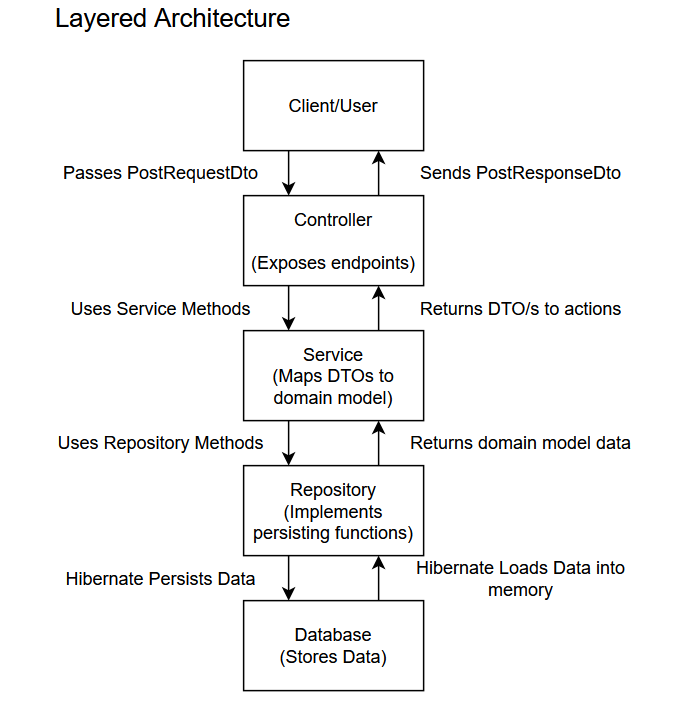
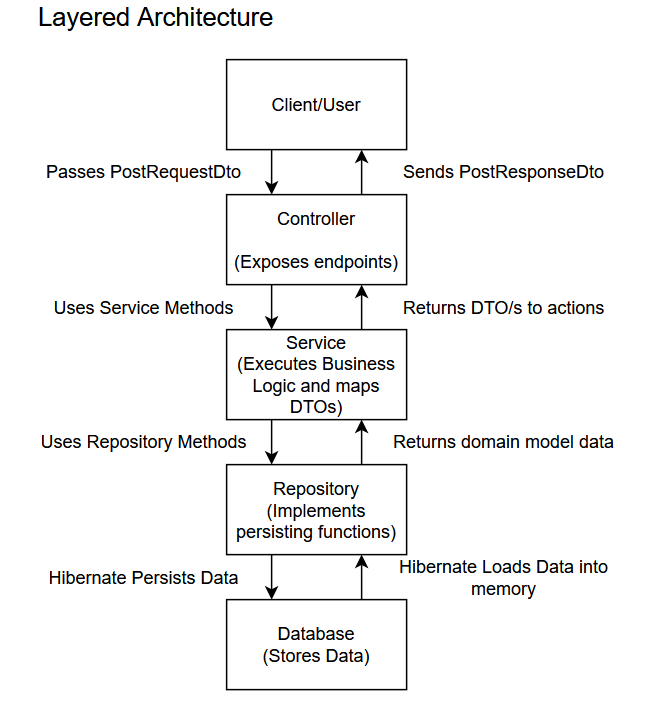
Fixed API Endpoints section in readme

Changed region(s): [[0.0611, 0.0, 0.9466, 0.9886], [0.4275, 0.1198, 0.5496, 0.1797]]

diff --git a/README.md b/README.md
@@ -40,12 +40,12 @@ DB_PASSWORD = your_password
 ```
 
 ## API Endpoints
-```POST /posts``` Creates a new post
-```PUT /posts/{id}``` Updates a blog post
-```DELETE /posts/{id}``` Deletes a blog post
-```GET /posts``` Retrieves all blog posts
-```GET /posts/{id}``` Finds the blog post with that id
-```GET /posts?term={keyword}``` Finds posts with said keyword
+- ```POST /posts``` Creates a new post
+- ```PUT /posts/{id}``` Updates a blog post
+- ```DELETE /posts/{id}``` Deletes a blog post
+- ```GET /posts``` Retrieves all blog posts
+- ```GET /posts/{id}``` Finds the blog post with that id
+- ```GET /posts?term={keyword}``` Finds posts with said keyword
 
 ## Sample Usage and Diagrams
 ### Creating a Blog
